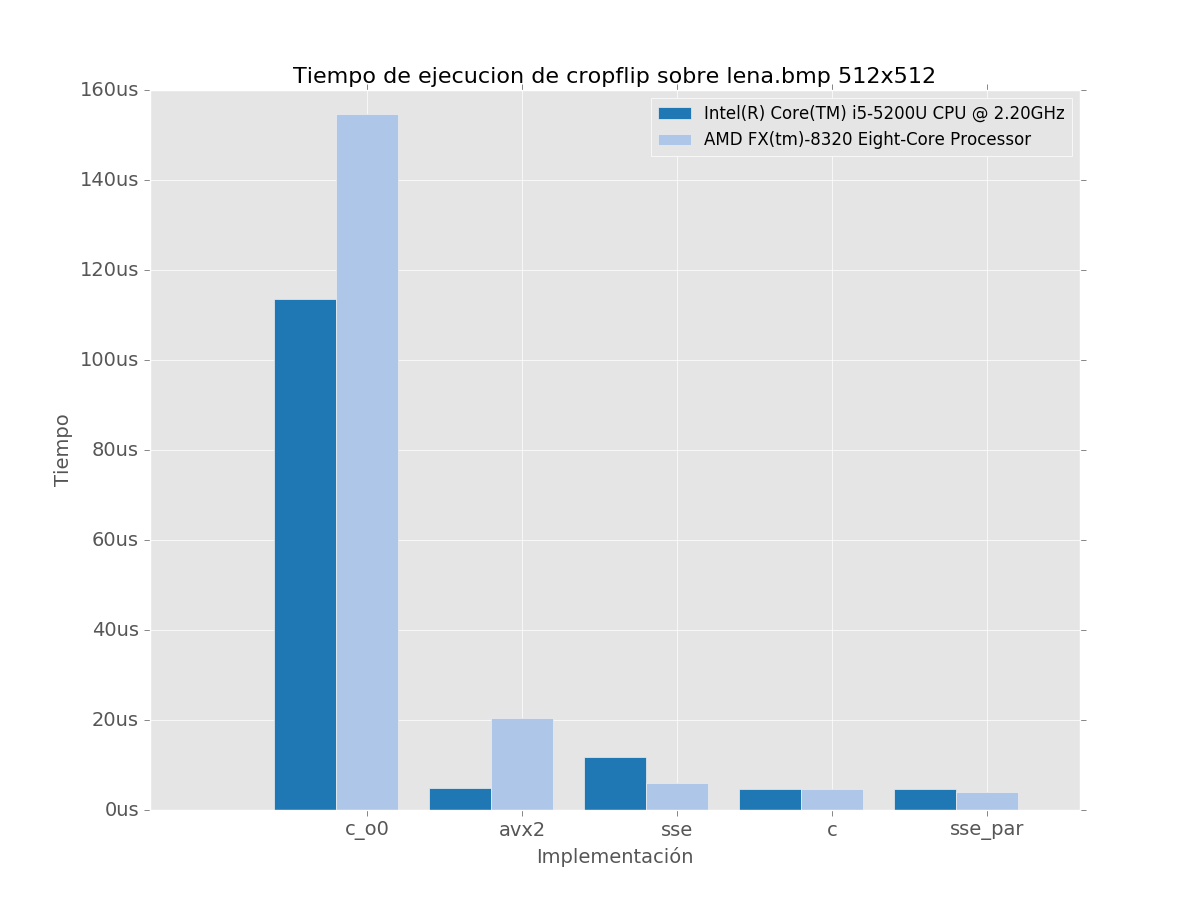
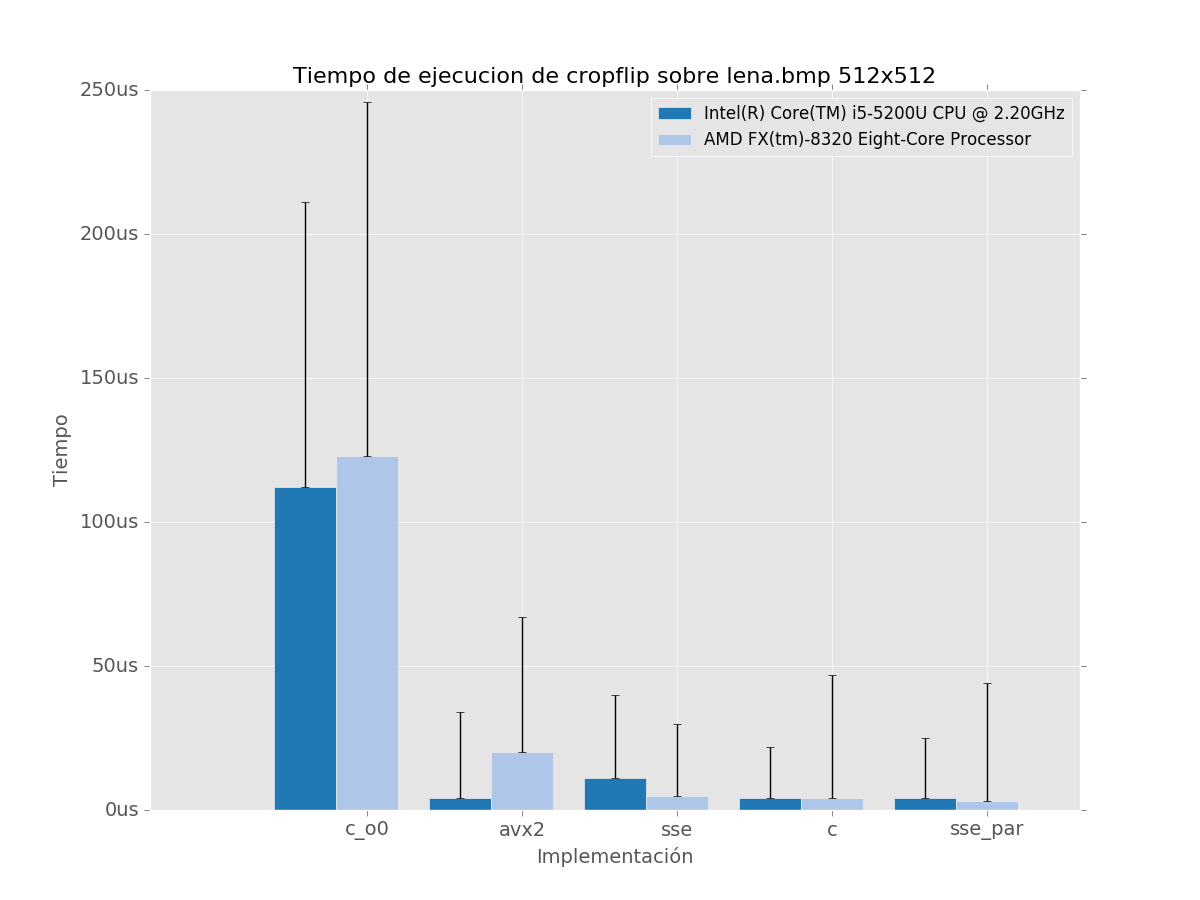
Agregar max/min de tiempo al benchmark

diff --git a/tp2/entregable/tp2-bundle.v1/codigo/benchmark/grapher.py b/tp2/entregable/tp2-bundle.v1/codigo/benchmark/grapher.py
@@ -48,11 +48,11 @@ class Grapher:
     # Graphs
 
     def plotTime(self, tests, filterName, path):
-        # sets: [(cpuModel, {impl: speedup})]
+        # sets: [(cpuModel, {impl: (minTime, error+, error-)})]
         # groups: [impl]
         sets = []
         groups = []
-        maxTime = 0.
+        maxMinTime = 0.
 
         for host,t in tests.items():
             if filterName+"_implementaciones" not in t["tests"]:
@@ -62,8 +62,13 @@ class Grapher:
             base = None
 
             for result in t["tests"][filterName+"_implementaciones"]["results"]:
-                datapoints[result["implementation"]] = result["time"]
-                maxTime = max(maxTime, result["time"])
+                datapoints[result["implementation"]] = (
+                        result["minTime"],
+                        result["maxTime"] - result["minTime"],
+                        0
+                )
+
+                maxMinTime = max(maxMinTime, result["minTime"])
 
                 if result["implementation"] not in groups:
                     groups.append(result["implementation"])
@@ -78,12 +83,12 @@ class Grapher:
             sets.append((model,datapoints))
 
         unit = "s"
-        if maxTime < 0.5e-3:
+        if maxMinTime < 0.5e-3:
             unit = "us"
-            sets = [ (m, {i: t*1e6 for i,t in r.items()}) for m,r in sets]
-        elif maxTime < 0.5:
+            sets = [ (m, {i: (t*1e6,ep*1e6,0) for i,(t,ep,em) in r.items()}) for m,r in sets]
+        elif maxMinTime < 0.5:
             unit = "ms"
-            sets = [ (m, {i: t*1e3 for i,t in r.items()}) for m,r in sets]
+            sets = [ (m, {i: (t*1e3,ep*1e3,0) for i,(t,ep,em) in r.items()}) for m,r in sets]
 
         # Plot the data
         self.plotGroupedBarplots(sets, groups, ascendingOrder=False)
@@ -98,7 +103,7 @@ class Grapher:
         plt.savefig(path+filterName+"_time.png")
 
     def plotSpeedup(self, tests, filterName, path):
-        # sets: [(cpuModel, {impl: speedup})]
+        # sets: [(cpuModel, {impl: (speedup, error+, error-)})]
         # groups: [impl]
         sets = []
         groups = []
@@ -111,15 +116,19 @@ class Grapher:
 
             for result in t["tests"][filterName+"_implementaciones"]["results"]:
                 if result["implementation"] == "c":
-                    base = result["time"]
+                    base = result["minTime"]
                 else:
-                    datapoints[result["implementation"]] = result["time"]
+                    datapoints[result["implementation"]] = (
+                            result["minTime"],
+                            result["maxTime"],
+                            0
+                    )
 
                     if result["implementation"] not in groups:
                         groups.append(result["implementation"])
 
             # Normalize the data
-            datapoints = { i: base/t for i,t in datapoints.items()}
+            datapoints = { i: (base/t,base/m - base/t,0) for i,(t,m,em) in datapoints.items()}
 
             model = t["model"]
             if model in sets:
@@ -170,7 +179,7 @@ class Grapher:
         return (fig, ax)
 
     def plotGroupedBarplots(self, sets, groups, ascendingOrder=True):
-        # sets: [(label, {group: value})]
+        # sets: [(label, {group: (value, error+, error-)})]
         # groups: [impl]
         self.setupPyplot()
 
@@ -178,23 +187,27 @@ class Grapher:
         order = lambda ss : max(ss) if ascendingOrder else -max(ss)
         groups = sorted(groups, key = lambda g :
                 (-len([1 for s in sets if g in s[1]]),
-                 order([d[g] for l,d in sets if g in d]))
+                 order([d[g][0] for l,d in sets if g in d]))
         )
 
-        sets = sorted(sets, key = lambda s : len(s[1]) * 1000 + s[1][groups[0]])
+        sets = sorted(sets, key = lambda s : len(s[1]) * 1000 + s[1][groups[0]][0])
 
         index = np.arange(len(groups))
         bar_width = 0.8 / len(sets)
 
         for i,s in enumerate(sets):
             model, data = s
-            ys = [data[g] if g in data else 0 for g in groups]
+            ys = [data[g][0] if g in data else 0 for g in groups]
+            yerr = ([data[g][2] if g in data else 0 for g in groups],
+                    [data[g][1] if g in data else 0 for g in groups])
 
             plt.bar(index + bar_width * (i+0.5) - bar_width * (len(sets)) / 2.,
                              ys,
                              bar_width,
                              color = self.getColor(i),
-                             label = model)
+                             label = model,
+                             ecolor = (0,0,0),
+                             yerr = yerr)
 
         plt.yticks(fontsize=14)
         plt.xticks(index + bar_width, groups, fontsize=14)

diff --git a/tp2/entregable/tp2-bundle.v1/codigo/tp2.c b/tp2/entregable/tp2-bundle.v1/codigo/tp2.c
@@ -3,6 +3,7 @@
 #include <stdio.h>
 #include <stdlib.h>
 #include <ctype.h>
+#include <limits.h>
 
 #include "tp2.h"
 #include "helper/tiempo.h"
@@ -68,16 +69,21 @@ filtro_t* detectar_filtro(configuracion_t *config)
 }
 
 
-void imprimir_tiempos_ejecucion(unsigned long long int start, unsigned long long int end, unsigned long long minCycles, int cant_iteraciones) {
-    unsigned long long int cant_ciclos = end-start;
+void imprimir_tiempos_ejecucion(
+        unsigned long long int cycles, unsigned long long minCycles,
+             unsigned long long maxCycles,
+        struct timeval tvTotal, struct timeval tvMin, struct timeval tvMax,
+        int cant_iteraciones) {
 
     printf("Tiempo de ejecución:\n");
-    printf("  Comienzo                          : %llu\n", start);
-    printf("  Fin                               : %llu\n", end);
     printf("  # iteraciones                     : %d\n", cant_iteraciones);
-    printf("  # de ciclos insumidos totales     : %llu\n", cant_ciclos);
-    printf("  # de ciclos insumidos por llamada : %.3f\n", (float)cant_ciclos/(float)cant_iteraciones);
+    printf("  # de ciclos insumidos totales     : %llu\n", cycles);
+    printf("  # de ciclos insumidos por llamada : %.3f\n", (float)cycles/(float)cant_iteraciones);
     printf("  # minimo de ciclos insumidos      : %llu\n", minCycles);
+    printf("  # maximo de ciclos insumidos      : %llu\n", maxCycles);
+    printf("  tiempo total                      : %ld.%06ld\n", tvTotal.tv_sec, tvTotal.tv_usec);
+    printf("  tiempo minimo                     : %ld.%06ld\n", tvMin.tv_sec, tvMin.tv_usec);
+    printf("  tiempo maximo                     : %ld.%06ld\n", tvMax.tv_sec, tvMax.tv_usec);
 }
 
 void correr_filtro_imagen(configuracion_t *config, aplicador_fn_t aplicador)
@@ -97,38 +103,45 @@ void correr_filtro_imagen(configuracion_t *config, aplicador_fn_t aplicador)
     else
     {
         imagenes_abrir(config);
-        unsigned long long start, end, partialStart, partialEnd, partialMin=-1;
-        const unsigned short timingSlice = 32;
+        unsigned long long cyclesTotal = 0, cyclesStart, cyclesEnd,
+                           cyclesMin = -1, cyclesMax = 0, cyclesPartial;
+        struct timeval tvStart, tvEnd, tvMin, tvMax, tvPartial, tvTotal;
 
-        MEDIR_TIEMPO_START(start)
+        timerclear(&tvTotal);
+        timerclear(&tvMax);
+        timerclear(&tvMin);
+        tvMin.tv_sec = (__time_t) LONG_MAX;
 
-        for (int i = config->cant_iteraciones / timingSlice; i-->0; ){
-                unsigned long long partialTime;
+        for (int i = 0; i < config->cant_iteraciones; i++){
 
-                MEDIR_TIEMPO_START(partialStart)
-                for(int j = timingSlice; j-->0; ){
-                    aplicador(config);
-                }
-                MEDIR_TIEMPO_STOP(partialEnd)
+            gettimeofday(&tvStart,NULL);
+            MEDIR_TIEMPO_START(cyclesStart)
+            aplicador(config);
+            MEDIR_TIEMPO_STOP(cyclesEnd)
+            gettimeofday(&tvEnd,NULL);
 
-                partialTime = partialEnd - partialStart;
-                partialMin = partialTime < partialMin ? partialTime : partialMin;
-        }
-        for (int i = config->cant_iteraciones % timingSlice; i-->0; ) {
-                aplicador(config);
-        }
+            timersub(&tvEnd, &tvStart, &tvPartial);
 
-        MEDIR_TIEMPO_STOP(end)
+            timeradd(&tvTotal, &tvPartial, &tvTotal);
+            if(timercmp(&tvPartial, &tvMin, <)) {
+                tvMin = tvPartial;
+            }
+            if(timercmp(&tvPartial, &tvMax, >)) {
+                tvMax = tvPartial;
+            }
 
-        if(config->cant_iteraciones < timingSlice) {
-            partialMin = (end-start)/config->cant_iteraciones;
-        } else {
-            partialMin /= timingSlice;
+            cyclesPartial = cyclesEnd - cyclesStart;
+
+            cyclesTotal += cyclesPartial;
+            cyclesMin = cyclesPartial < cyclesMin ? cyclesPartial : cyclesMin;
+            cyclesMax = cyclesPartial > cyclesMax ? cyclesPartial : cyclesMax;
         }
 
         imagenes_guardar(config);
         imagenes_liberar(config);
-        imprimir_tiempos_ejecucion(start, end, partialMin, config->cant_iteraciones);
+        imprimir_tiempos_ejecucion(cyclesTotal, cyclesMin, cyclesMax,
+                tvTotal, tvMin, tvMax,
+                config->cant_iteraciones);
     }
 
     free(tipo_filtro_UPPER);

diff --git a/tp2/entregable/tp2-bundle.v1/codigo/benchmark/benchmark.py b/tp2/entregable/tp2-bundle.v1/codigo/benchmark/benchmark.py
@@ -63,14 +63,19 @@ class Benchmark:
 
     # Regexes matching the output of the script
 
-    realTimeRe = re.compile(r"^real ([0-9.]+)",re.M)
-    userTimeRe = re.compile(r"^user ([0-9.]+)",re.M)
-    sysTimeRe = re.compile(r"^sys ([0-9.]+)",re.M)
     completedRe = re.compile(r"^\s*Tiempo de ejecución",re.M)
     iterationsRe = re.compile(r"^\s*# iteraciones\s+: ([0-9]+)",re.M)
+
     cyclesRe = re.compile(r"^\s*# de ciclos insumidos por llamada\s+: ([0-9.]+)",re.M)
     minCyclesRe = re.compile(r"^\s*# minimo de ciclos insumidos \s+: ([0-9.]+)",re.M)
+    maxCyclesRe = re.compile(r"^\s*# maximo de ciclos insumidos \s+: ([0-9.]+)",re.M)
+
+    timeRe = re.compile(r"^\s*tiempo total \s+: ([0-9.]+)",re.M)
+    minTimeRe = re.compile(r"^\s*tiempo minimo \s+: ([0-9.]+)",re.M)
+    maxTimeRe = re.compile(r"^\s*tiempo maximo \s+: ([0-9.]+)",re.M)
+
     invalidInstructionRe = re.compile(r"^Command terminated by signal 4",re.M)
+
     cpuinfoModelRe = re.compile(r"^model name\s*:\s(.*)$",re.M)
 
 
@@ -205,14 +210,14 @@ class Benchmark:
         arguments = [str(a) for a in arguments]
 
         first = True
-        userTime = 0
+        totalTime = 0
         iterations = 1 if singleRun else minIterations
-        while first or (userTime < minTime and not singleRun):
+        while first or (totalTime < minTime and not singleRun):
             if not first:
-                if userTime < 0.01:
+                if totalTime < 0.01:
                     iterations *= 10
                 else:
-                    calcIts = int(1.1 * iterations * minTime / userTime)
+                    calcIts = int(1.1 * iterations * minTime / totalTime)
                     if iterations < calcIts:
                         iterations = calcIts
                     else:
@@ -236,20 +241,22 @@ class Benchmark:
                 print("Output: ",e.output)
                 raise
 
-            userTime = float(self.userTimeRe.search(out).group(1))
-
             # Return if the process failed
             if not self.completedRe.search(out):
                 return None
 
+            totalTime = float(self.timeRe.search(out).group(1))
+
         # Parse the output data
         iterations = int(float(self.iterationsRe.search(out).group(1)))
-        cycles = int(float(self.cyclesRe.search(out).group(1)))
-        minCycles = int(float(self.cyclesRe.search(out).group(1)))
-        time = userTime/iterations
+        totalCycles = int(float(self.cyclesRe.search(out).group(1)))
+        minCycles = int(float(self.minCyclesRe.search(out).group(1)))
+        maxCycles = int(float(self.maxCyclesRe.search(out).group(1)))
+        minTime = float(self.minTimeRe.search(out).group(1))
+        maxTime = float(self.maxTimeRe.search(out).group(1))
 
         # Calculate the maximum pixel diff
-        maxDiff = -1
+        maxDiff = None
         if referenceImplementation is not None:
             outImage = IMG_OUT_PATH+os.path.basename(img)+"." \
                 +filterName+"."+implementation.upper()+".bmp"
@@ -259,11 +266,18 @@ class Benchmark:
             maxDiff = self.getMaxPixelDiff(referenceImage,outImage)
 
         return {
-            "totalTime": userTime,
-            "time": time,
             "iterations": iterations,
-            "cycles": cycles,
+
+            "totalTime": totalTime,
+            "minTime": minTime,
+            "maxTime": maxTime,
+            "avgTime": totalTime / iterations,
+
+            "totalCycles": totalCycles,
             "minCycles": minCycles,
+            "maxCycles": minCycles,
+            "avgCycles": int(totalCycles / iterations),
+
             "maxDiff": maxDiff
         }
 

diff --git a/tp2/entregable/tp2-bundle.v1/codigo/tp2.h b/tp2/entregable/tp2-bundle.v1/codigo/tp2.h
@@ -3,6 +3,7 @@
 
 #include <stdbool.h>
 #include <stdint.h>
+#include <sys/time.h>
 
 #define FILTRO_C   0
 #define FILTRO_ASM 1
@@ -84,11 +85,41 @@ typedef struct filtro_t {
 extern filtro_t filtros[];
 filtro_t* detectar_filtro(configuracion_t *config);
 void      correr_filtro_imagen(configuracion_t *config, aplicador_fn_t aplicador);
-void      imprimir_tiempos_ejecucion(unsigned long long int start, unsigned long long int end, unsigned long long int minCycles, int cant_iteraciones);
+void      imprimir_tiempos_ejecucion(
+        unsigned long long int cycles, unsigned long long int minCycles,
+            unsigned long long int maxCycles,
+        struct timeval tvTotal, struct timeval tvMin, struct timeval tvMax,
+        int cant_iteraciones);
 
 // ~~~ declaraciones de cli.h ~~~
 void      procesar_opciones(int argc, char **argv, configuracion_t *config);
 void      imprimir_ayuda ( char *nombre_programa);
 
+// ~~~ operaciones con timeval ~~~
+# define timerisset(tvp)    ((tvp)->tv_sec || (tvp)->tv_usec)
+# define timerclear(tvp)    ((tvp)->tv_sec = (tvp)->tv_usec = 0)
+# define timercmp(a, b, CMP)                               \
+  (((a)->tv_sec == (b)->tv_sec) ?                          \
+   ((a)->tv_usec CMP (b)->tv_usec) :                       \
+   ((a)->tv_sec CMP (b)->tv_sec))
+# define timeradd(a, b, result)                            \
+  do {                                                     \
+    (result)->tv_sec = (a)->tv_sec + (b)->tv_sec;          \
+    (result)->tv_usec = (a)->tv_usec + (b)->tv_usec;       \
+    if ((result)->tv_usec >= 1000000)                      \
+      {                                                    \
+    ++(result)->tv_sec;                                    \
+    (result)->tv_usec -= 1000000;                          \
+      }                                                    \
+  } while (0)
+# define timersub(a, b, result)                            \
+  do {                                                     \
+    (result)->tv_sec = (a)->tv_sec - (b)->tv_sec;          \
+    (result)->tv_usec = (a)->tv_usec - (b)->tv_usec;       \
+    if ((result)->tv_usec < 0) {                           \
+      --(result)->tv_sec;                                  \
+      (result)->tv_usec += 1000000;                        \
+    }                                                      \
+  } while (0)
 
-#endif   /* !__TP2__H__ */
+#endif   /* !__TP2__H__i*/
